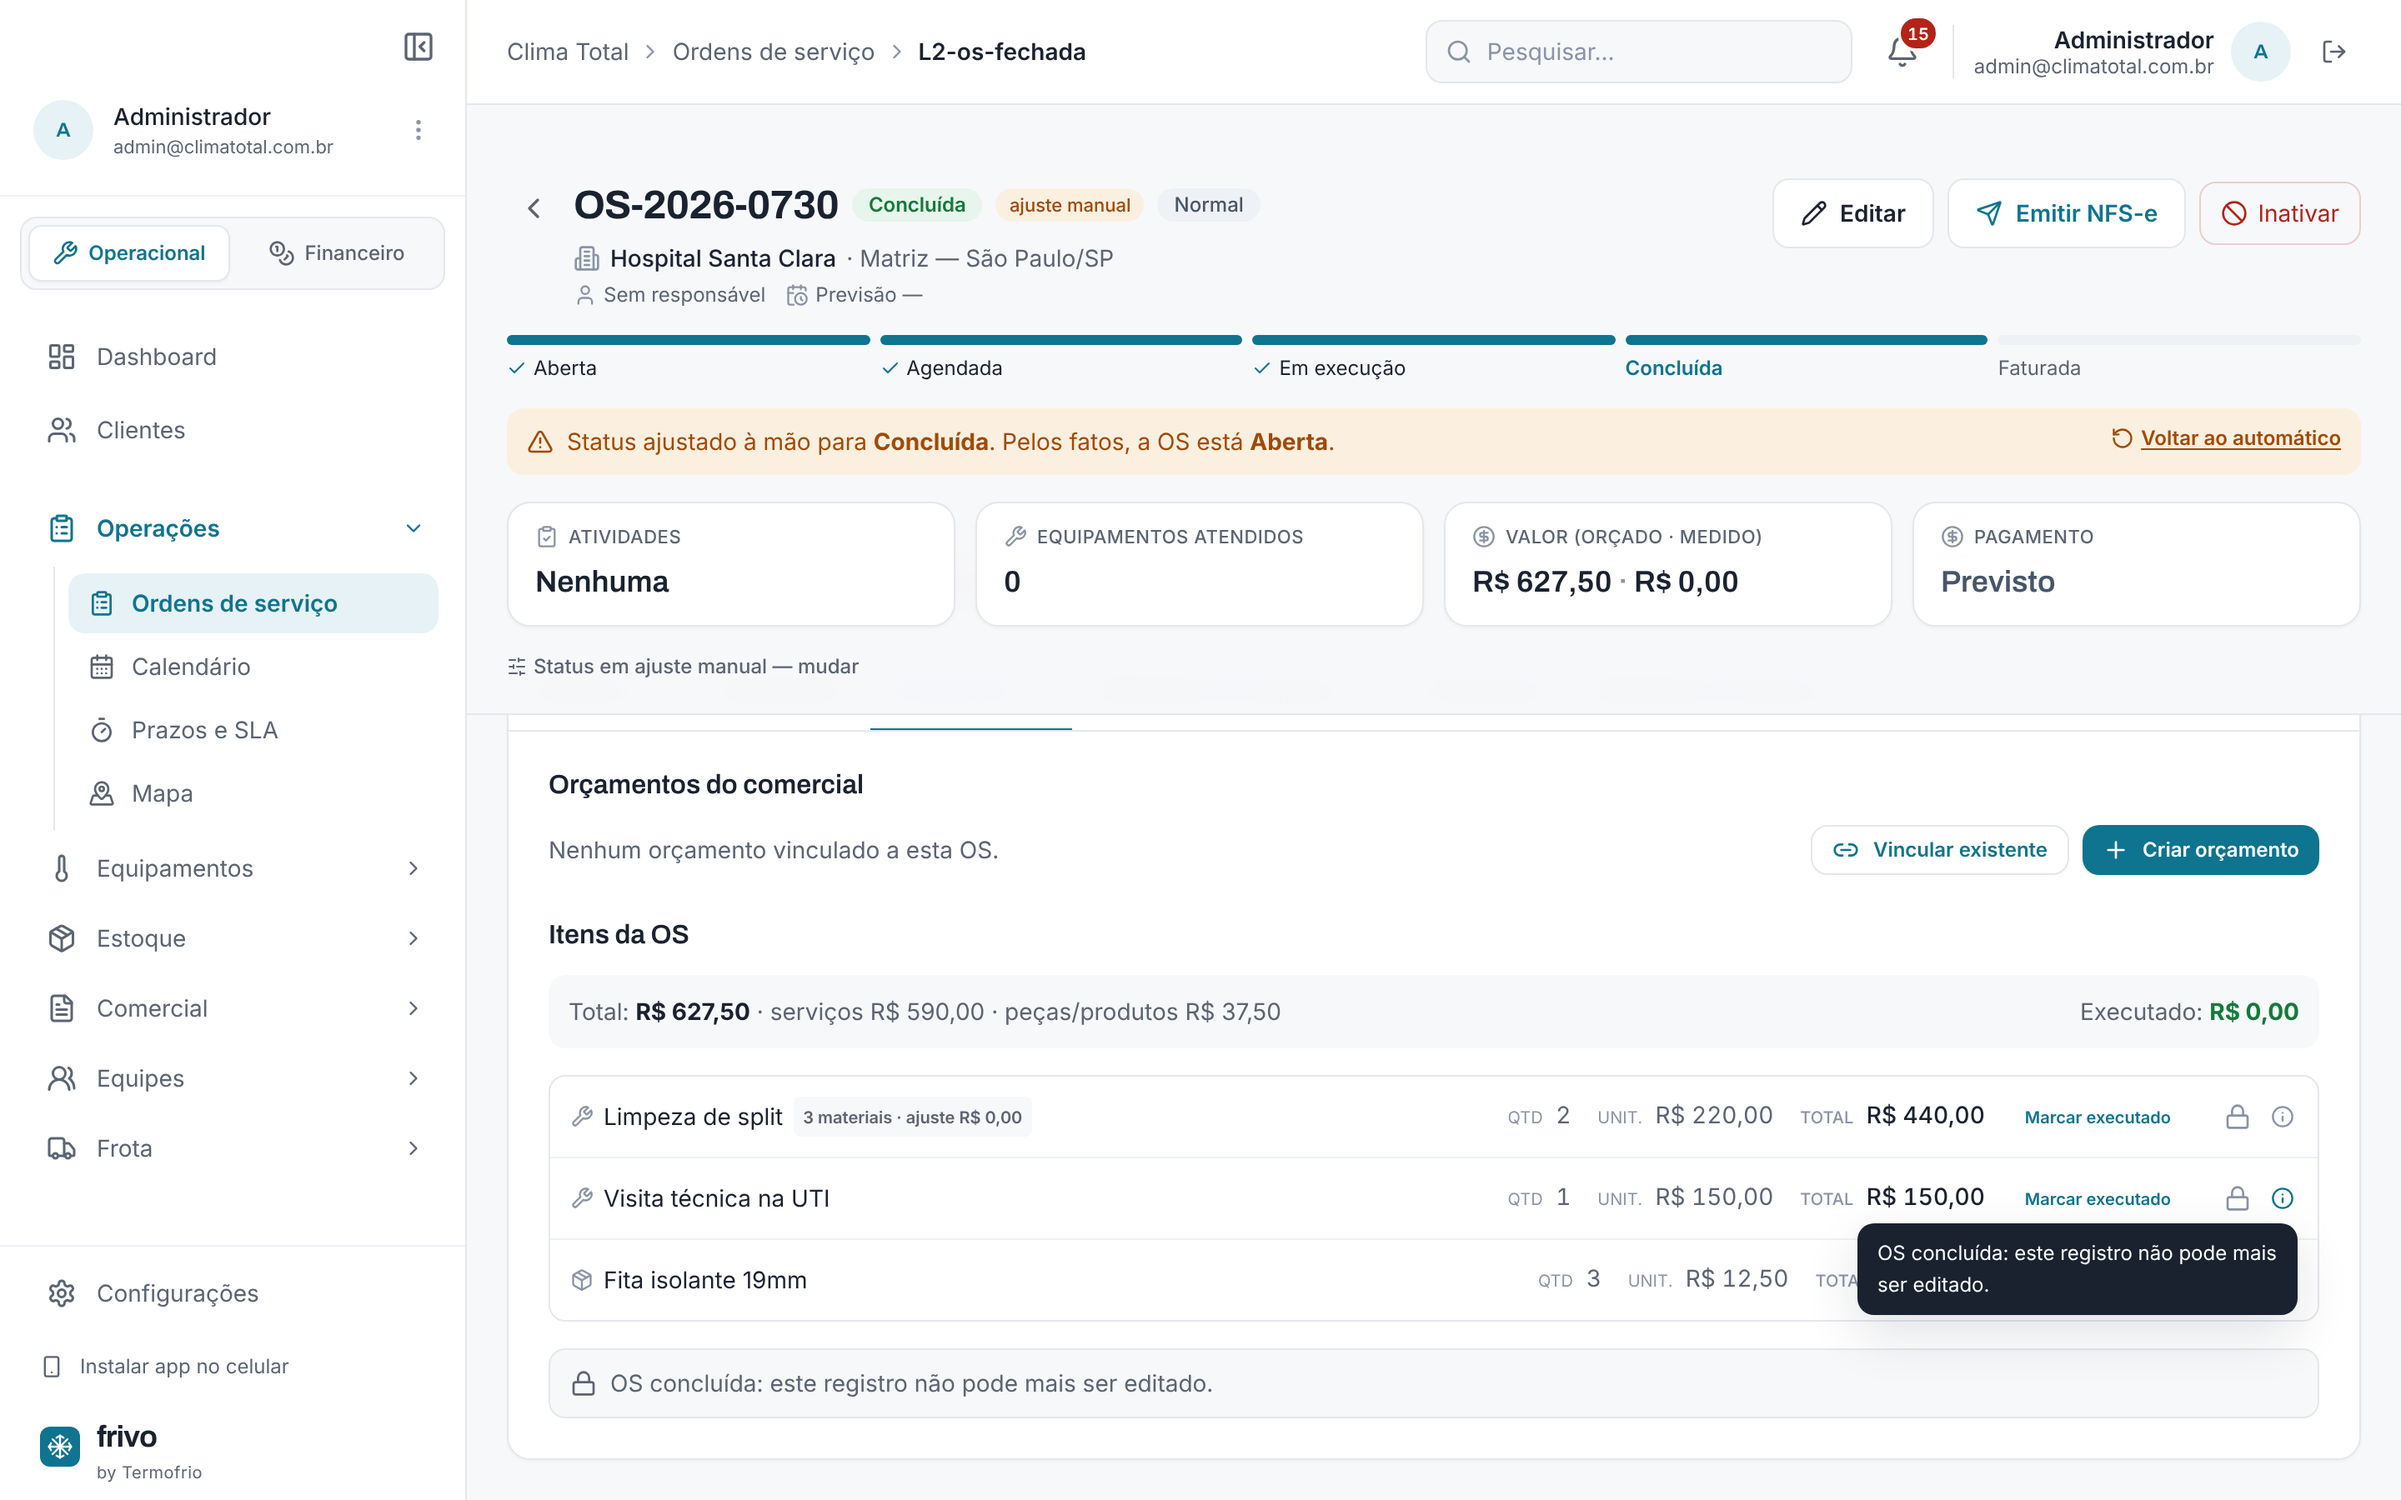
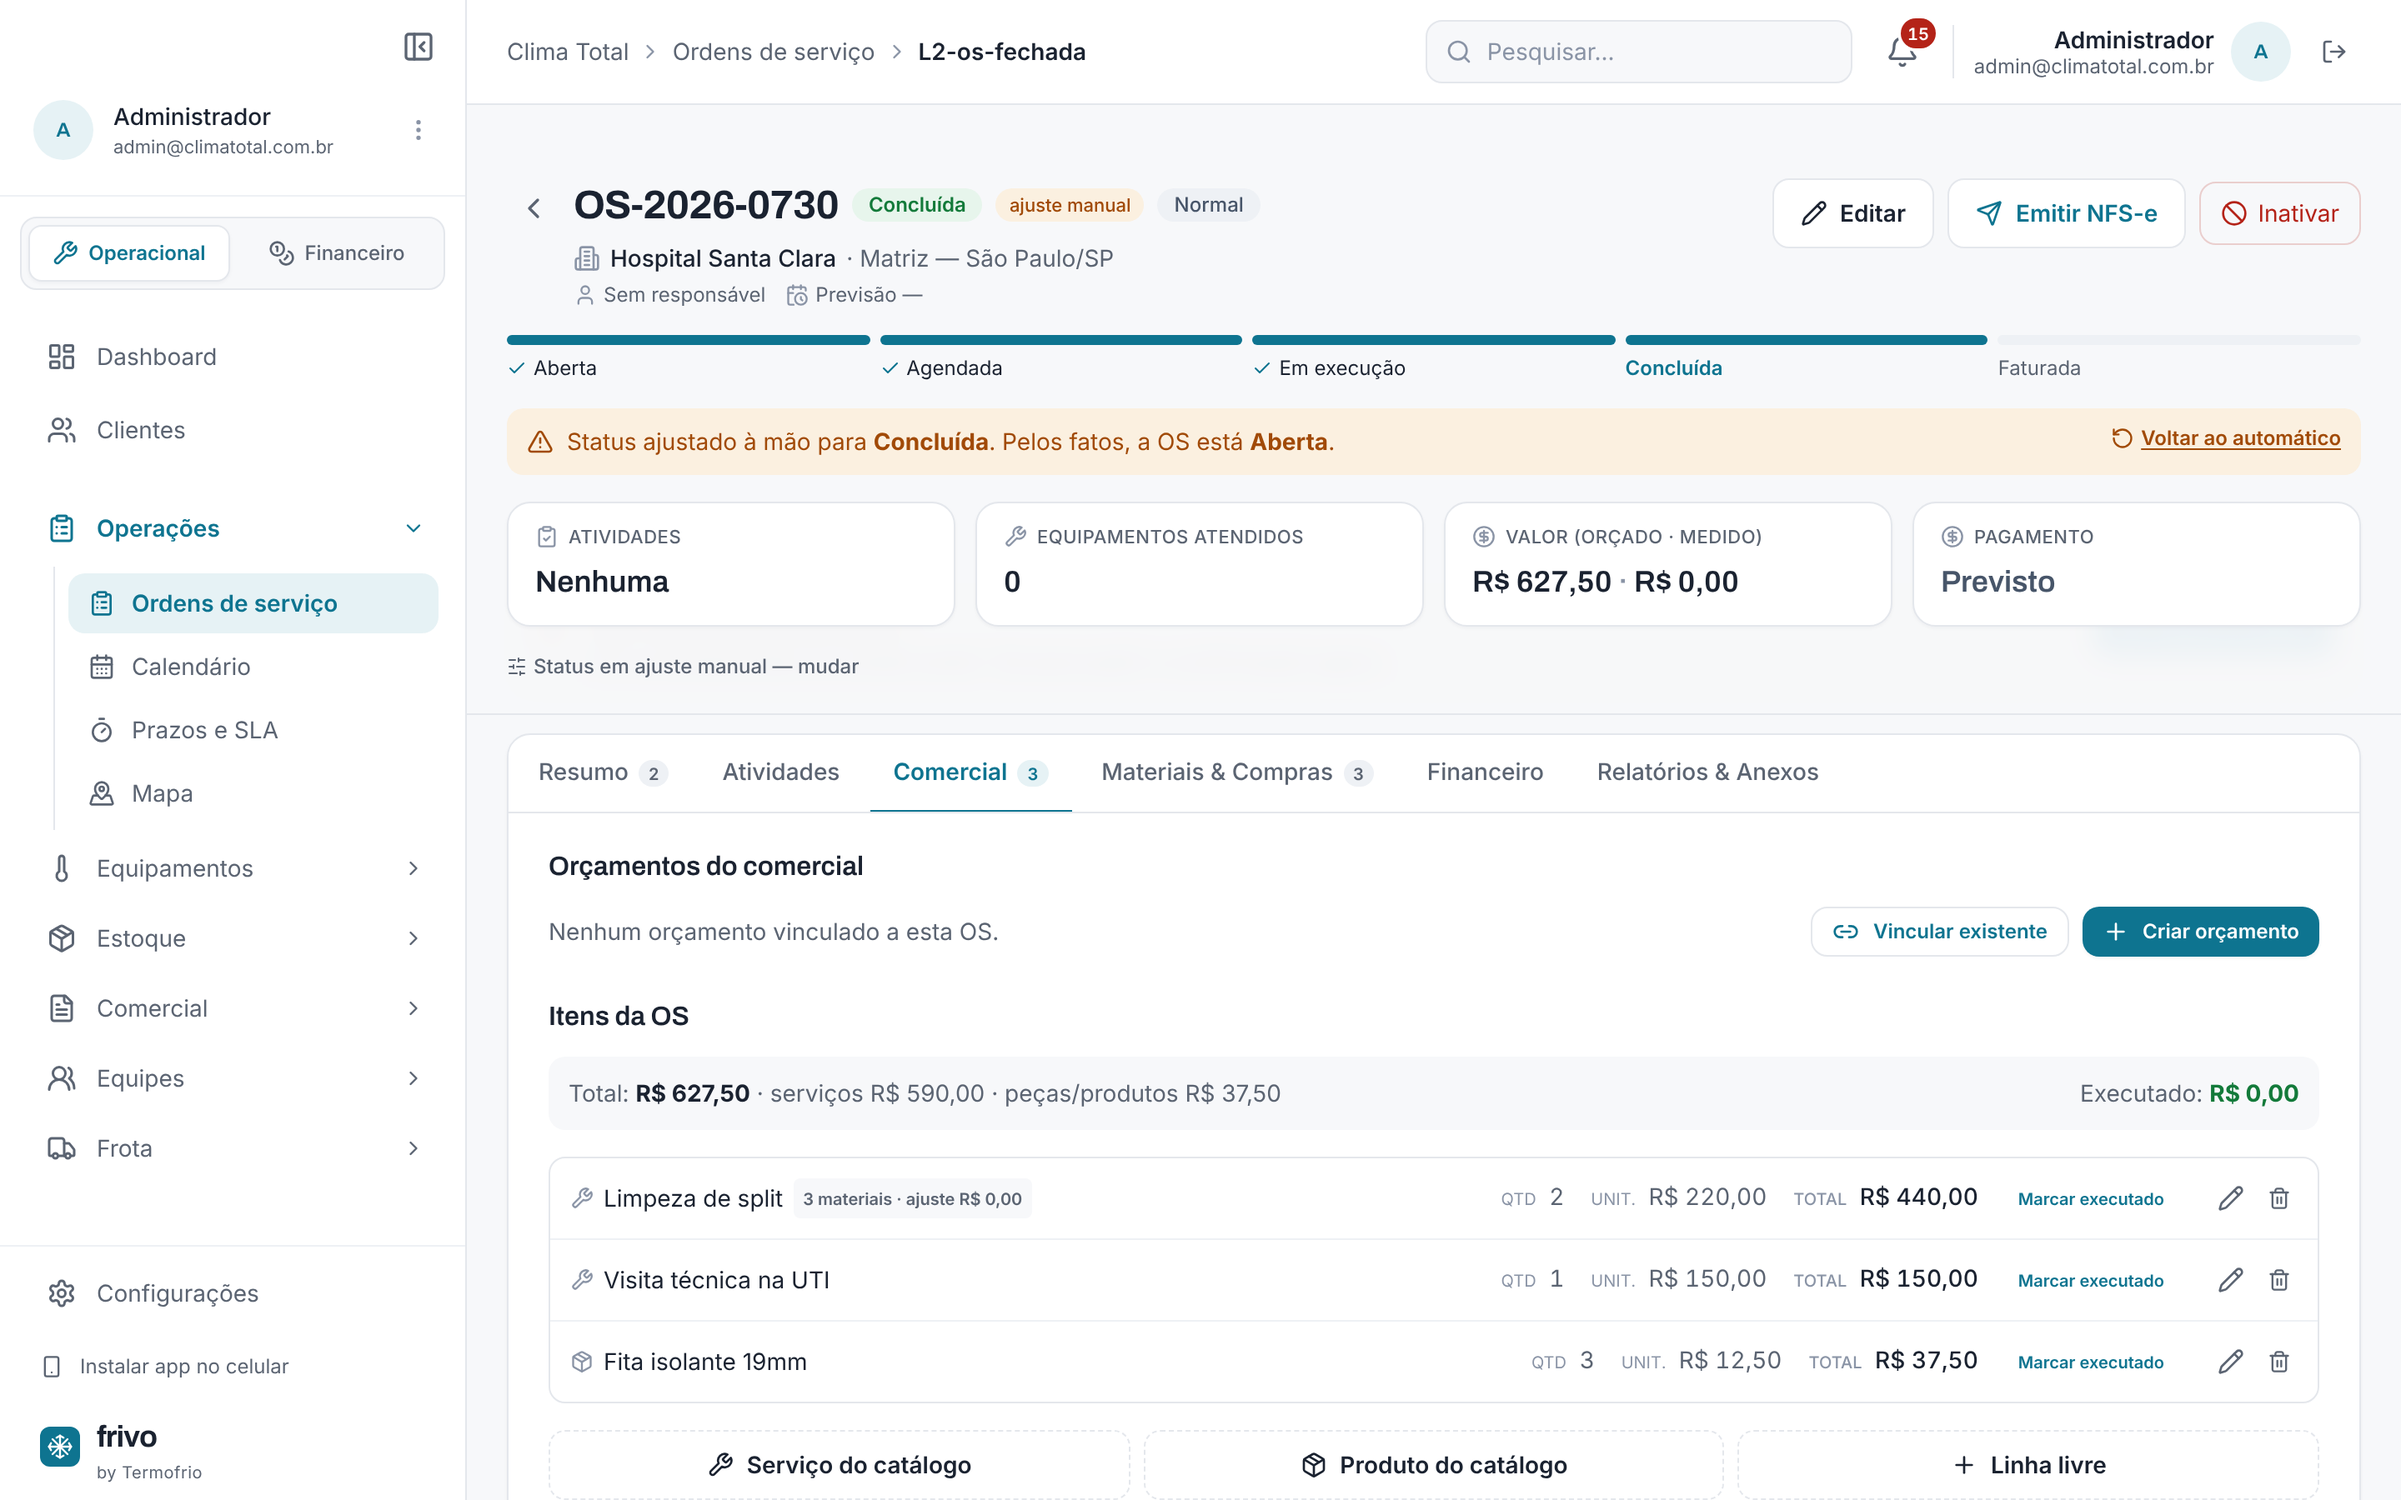
Leva 2: prints da OS concluída (editável) e da OS assinada (travada); conferência no doc
Claude-Session: https://claude.ai/code/session_01NogQSnn1DhMU16avoGcmWJ

diff --git a/docs/padronizacao-leva2.md b/docs/padronizacao-leva2.md
@@ -157,8 +157,8 @@ Definições prontas em `components/cadastro-rapido/definicoes.ts`: `CLIENTE.edi
 - `tests/unit/padronizacao-leva2-ui.test.ts` — telas num DOM de verdade: painéis de referência e de
   uso, contatos, cadeado, permissões, e onde está ligado.
 
-Conferência desta leva: suíte inteira verde (380 arquivos, 5.346 testes); mutação com 172 mutantes, 170
-pegos e 2 equivalentes (o `.strict()` final dos esquemas das linhas repete o que o esquema de origem já
-garante); e um roteiro no navegador de verdade (Chromium, desktop e celular) com 95 verificações.
+Conferência desta leva: suíte inteira verde (380 arquivos, 5.346 testes); mutação (uma regra quebrada por
+vez) cobrindo, entre outros, os mutantes que fariam a OS só concluída voltar a travar — todos pegos; e um
+roteiro no navegador de verdade (Chromium, desktop e celular) com 101 verificações.
 
 Prints em `docs/prints/padronizacao-leva2/` (`antes-*` e `depois-*`, desktop e celular).
